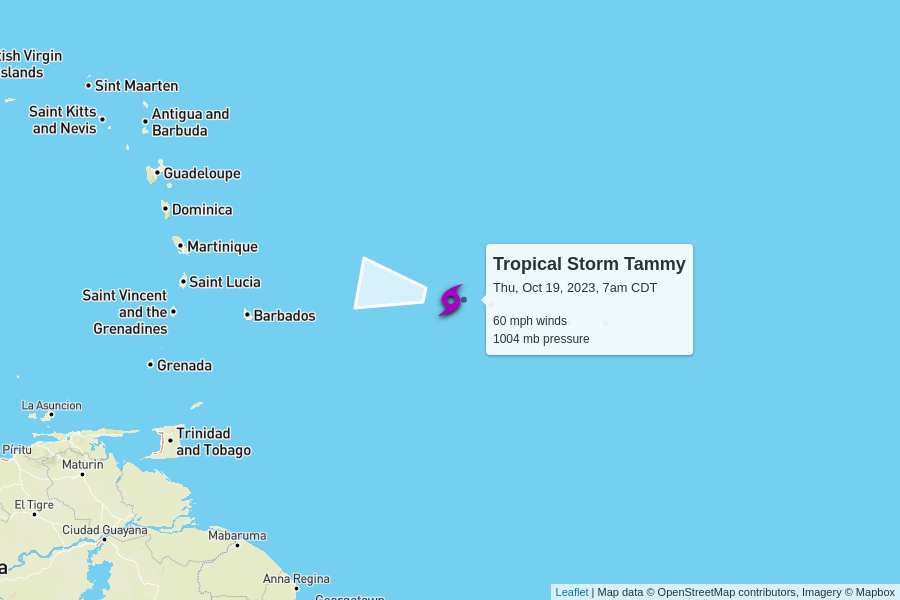
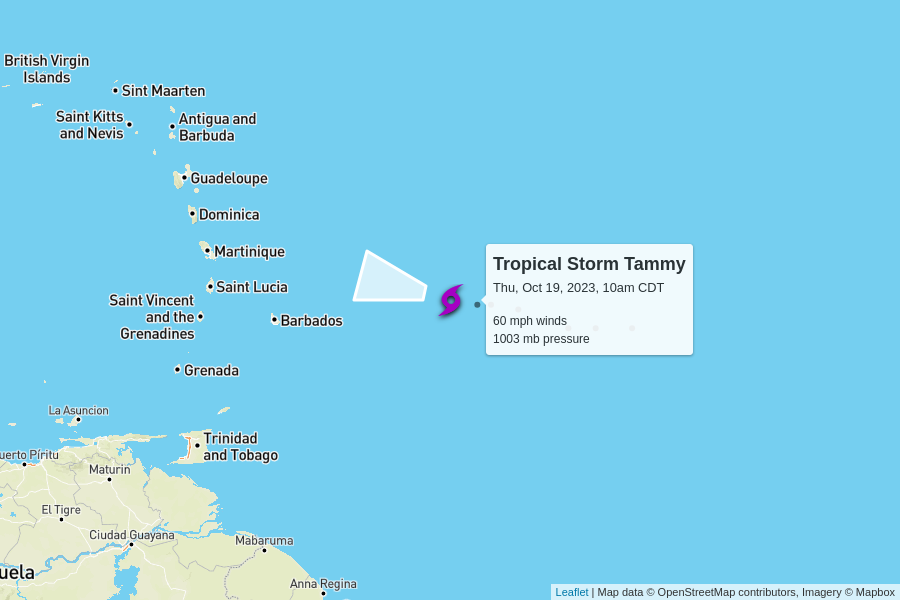
automatic update

diff --git a/docs/index.html b/docs/index.html
@@ -102,7 +102,7 @@
         <td colspan="6" class="storm category-0" >
           <h2>
             Tropical Storm Tammy
-            <p class="updated">last updated <span data-time>2023-10-19T12:00:00.000Z</span></p>
+            <p class="updated">last updated <span data-time>2023-10-19T15:00:00.000Z</span></p>
           </h2>
         </td>
       </tr>
@@ -117,12 +117,12 @@
       </tr>
       <tr>
         <td class="spacer"></td>
-        <td>60 mph<br>+20 mph since last update</td>
-        <td>1004 mb<br>-2 mb since last update</td>
+        <td>60 mph<br>0 mph since last update</td>
+        <td>1003 mb<br>-1 mb since last update</td>
         <td>
-          16 mph to the west
+          15 mph to the west-northwest
           <br/>
-          <span style="display: inline-block; font-size: 1.5em; transform: rotate(280deg);">↑</span>
+          <span style="display: inline-block; font-size: 1.5em; transform: rotate(285deg);">↑</span>
         </td>
         <td><a href="https://raw.githubusercontent.com/mgwalker/atlantic-hurricanes/main/data/csv/AL202023.csv">AL202023.csv</a></td>
         <td><a href="https://www.nhc.noaa.gov/archive/2023/TAMMY.shtml?">NHC advisories</a></td>
